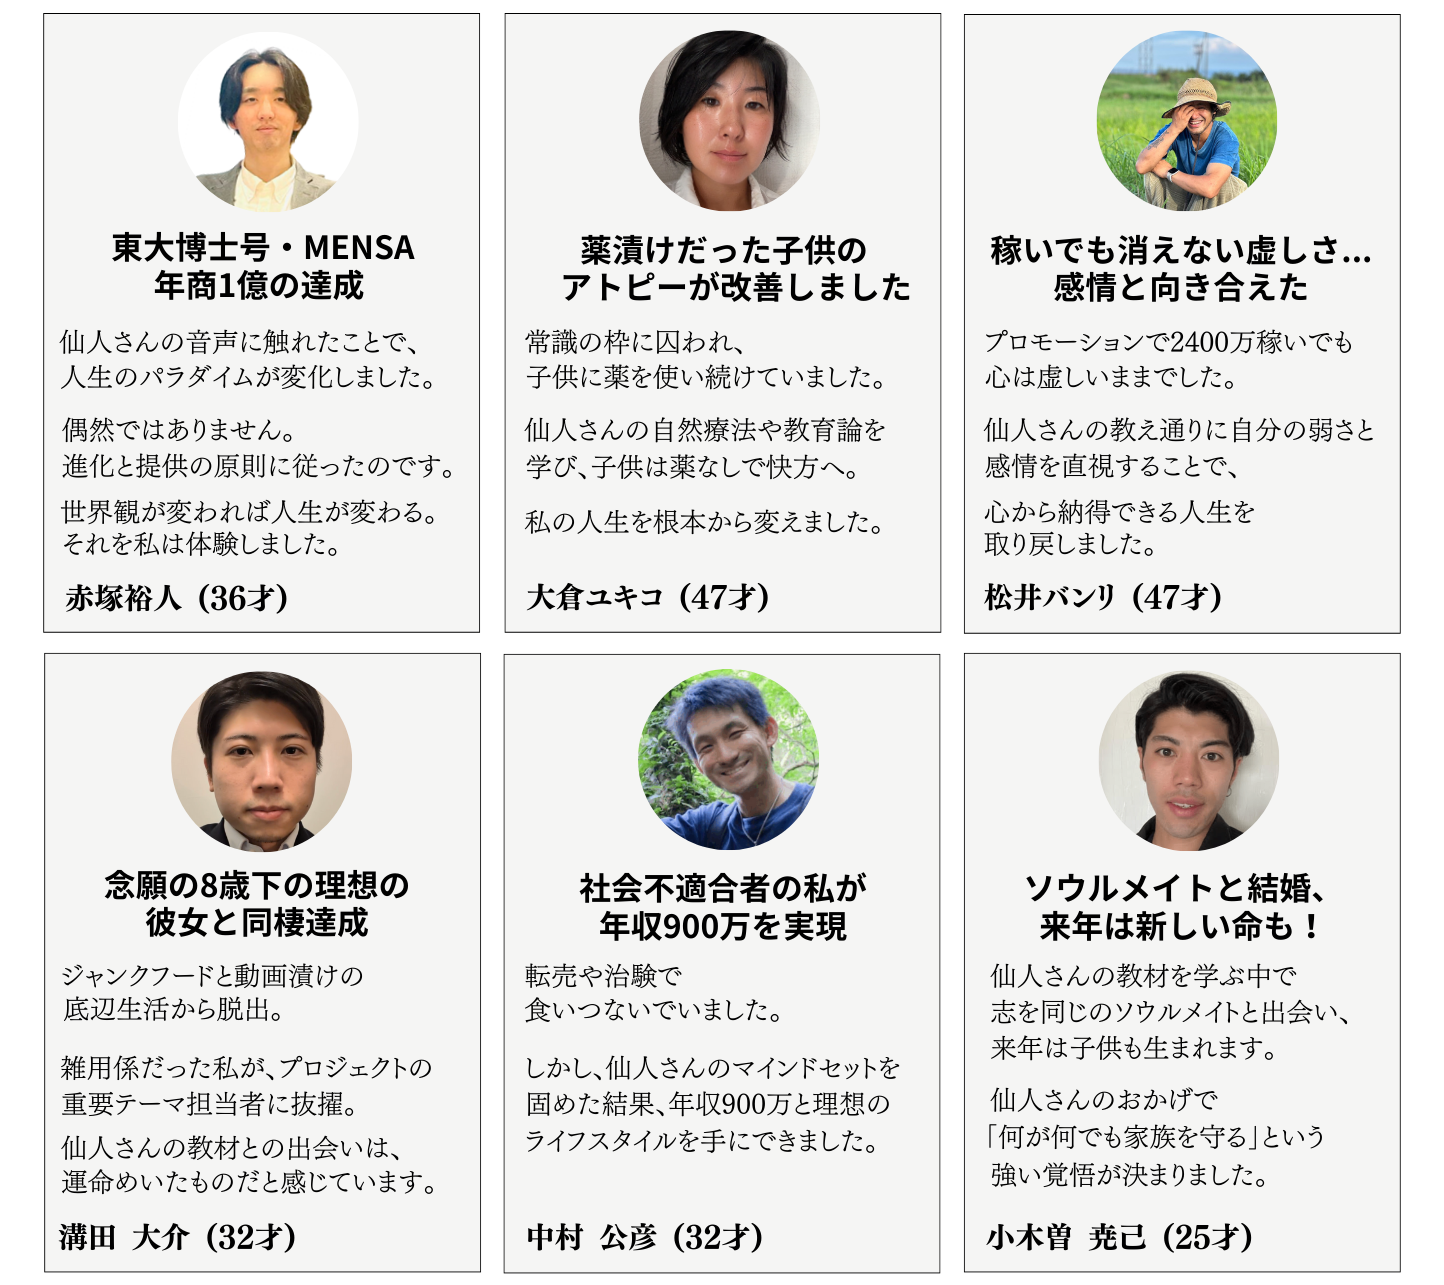
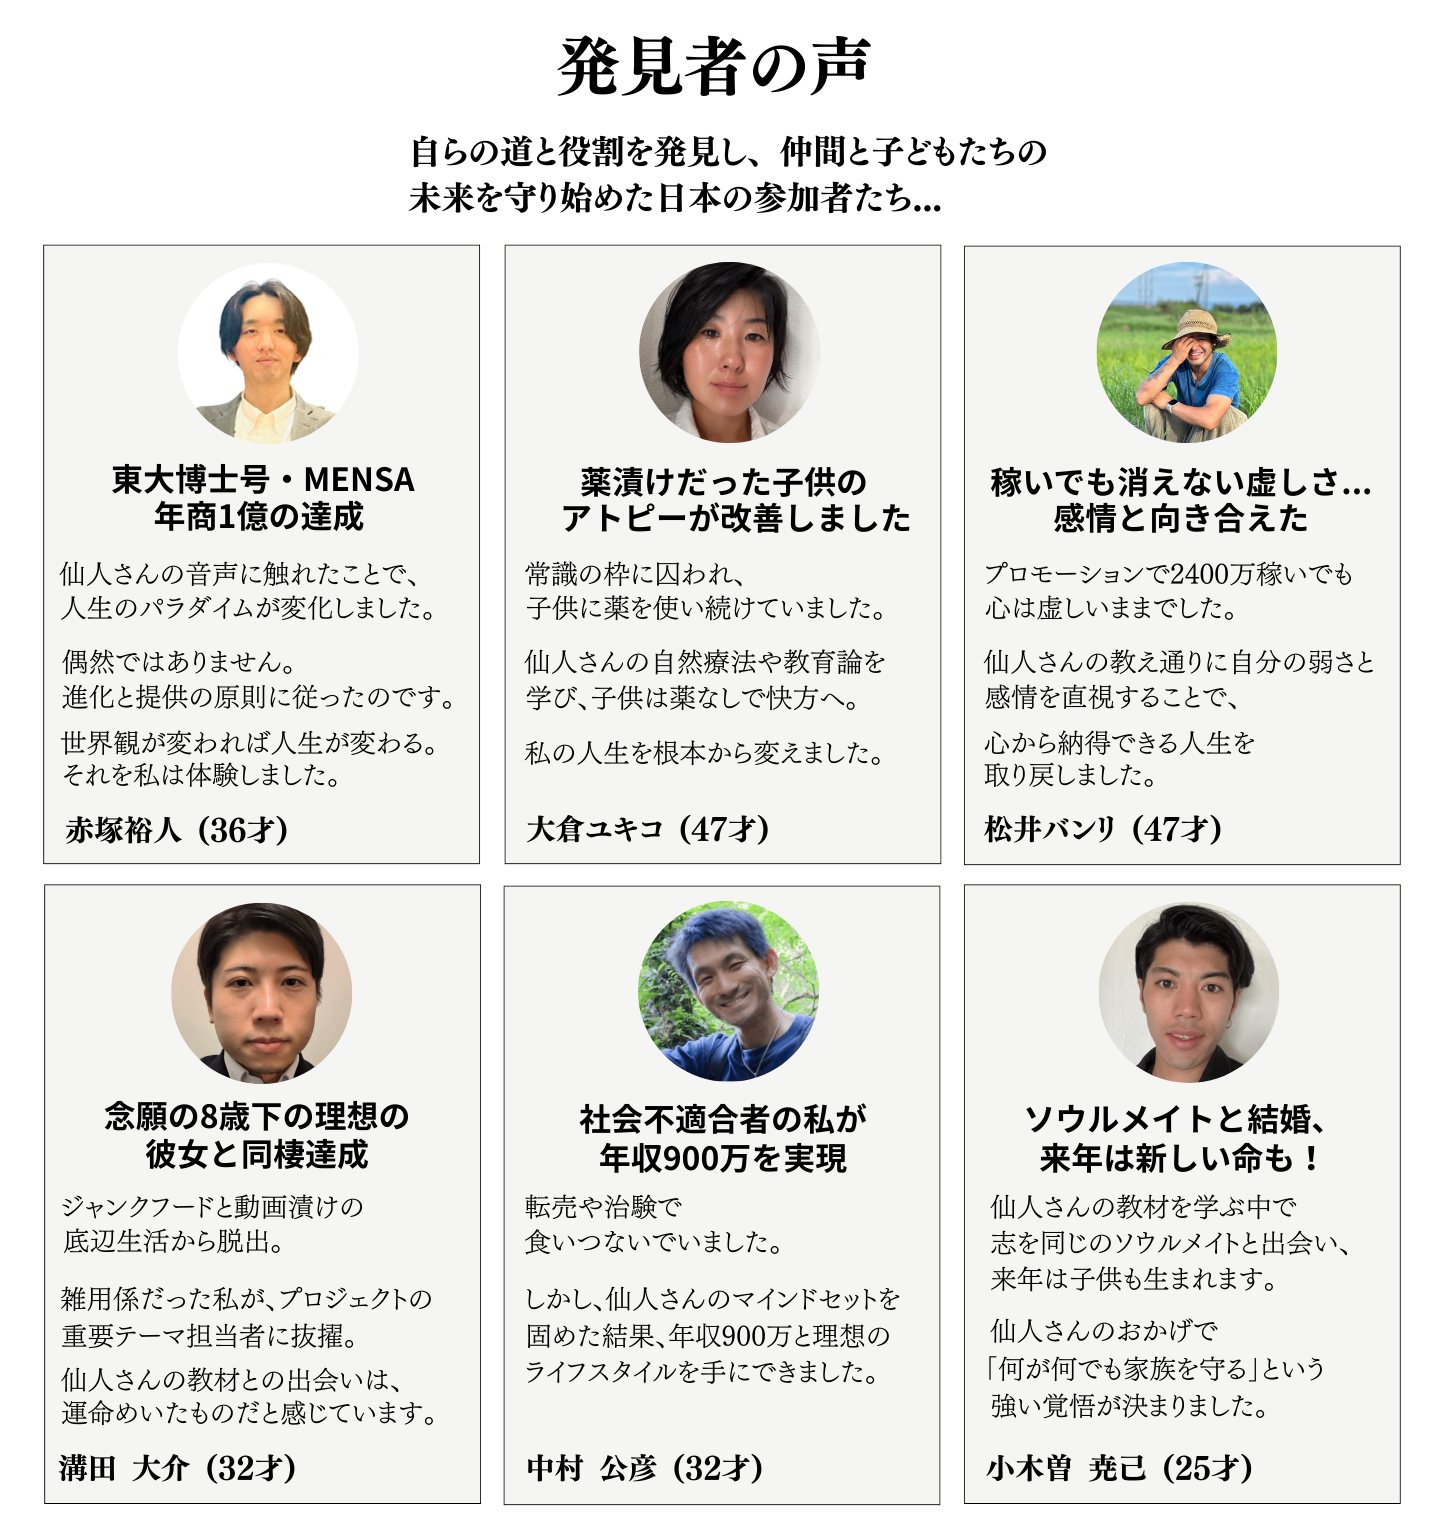
Add files via upload
update

diff --git a/index.html b/index.html
@@ -41,7 +41,7 @@
 
         <div class="section section02">
             <p class="headline-sub">“お金を稼げても人生は変わらない。<br>
-            問題は 「<span class="highlight-1">資本主義から抜け出せるか</span>」</p>
+            問題は <span class="highlight-1">資本主義から抜け出せるか</span></p>
             <p class="headline-sub2">
                 “山奥で12人の子どもと動物たちと暮らす男が、<br> 
                 <span class="highlight-1">仲間を守る文明</span>のつくり方を公開する”</p>
@@ -55,13 +55,6 @@
         </picture>
     </div>
 </div>
-
-        <div class="section section04">
-            <p class="from-text">
-            From: 仙人さん<br>
-            2025年11月、午前8時12分<br>
-            波動水の出る山の自宅</p>
-        </div>
 
         <!-- 音声プレーヤーセクション -->
         <div class="section">
@@ -82,10 +75,10 @@
     });
 </script>
 
-    <p class="headline-sub3">メンバーの声</p>
-        <p class="headline-sub4">自らの道と役割を発見し、 仲間と子どもたちの <br>未来を守り始めた、日本の参加者たち...</p>
+    <!--p class="headline-sub3">発見者の声</p>
+        <p class="headline-sub4">自らの道と役割を発見し、 仲間と子どもたちの <br>未来を守り始めた、日本の参加者たち...</p-->
 
-<div class="testimonial-grid" style="margin-bottom:0px;">
+<div class="testimonial-grid" style="margin-top:30px;margin-bottom:0px;">
     <div class="testimonial-item">
         <picture>
             <source srcset="files/head-koe2.webp" type="image/webp">
@@ -93,13 +86,20 @@
         </picture>
     </div>
 </div>
+        </div>
 
+
+        <div class="section section04" style="padding-bottom:0px;">
+            <p class="from-text">
+            <strong>From: 仙人さん</strong><br>
+            早朝 8時12分<br>
+            波動水の出る山の自宅</p>
         </div>
 
         <!-- メインコピー開始 -->
-        <div class="section section05">
-            <p class="bold-text"><span style="font-size:200%">人</span>は稼ぎ方を求めている。</p>
-            <p>だが世界が求めているのは、稼ぎ方を超えて<br class="sp-only">文明を前に進められる人間。</p>
+        <div class="section section05" style="padding-top: 10px;">
+            <p class="bold-text start-text"><span style="font-size:140%">人</span>は稼ぎ方を求めている。</p>
+            <p>だが世界が求めているのは、稼ぎ方を超えて<br>文明を前に進められる人間。</p>
             <p>孤独に戦う自由ではなく、守る力としての自由。</p>
             <p>富を独占する者ではなく、富を循環させられる者。</p>
             <p>あなたの力は、あなた一人のものではない。</p>
@@ -1843,7 +1843,9 @@
         </div>
 
         <!-- お客様の声セクション -->
-        <div class="section section-testimonials">
+        <div class="section section72">
+            <h3>追伸3:</h3>
+            <p style="font-weight:bold">仙人さんの元に届けられたファンからの手紙…</p>
 <div class="testimonial-grid">
     <div class="testimonial-item">
 <a href="#" target="_blank">

diff --git a/files/style.css b/files/style.css
@@ -61,7 +61,7 @@ ul, li {
    セクション基本設定
    ========================================== */
 .section {
-    padding: 30px 40px;
+    padding: 10px 40px;
     text-align: left;
 }
 
@@ -172,6 +172,19 @@ h3 {
     color: #000000;
     text-align: left;
     margin-bottom: 0.6em!important;
+    margin-left:0px;
+    font-family: 'ヒラギノ角ゴ ProN', 'Hiragino Kaku Gothic ProN', '游ゴシック', 'YuGothic', 'メイリオ', Meiryo, 'ＭＳ ゴシック', 'MS Gothic', sans-serif;
+    /*font-family: "ヒラギノ角ゴ StdN W8", "Hiragino Kaku Gothic StdN", "ＭＳ Ｐゴシック", "MS PGothic", sans-serif;*/
+}
+
+.start-text {
+    font-size: clamp(18px, 3vw, 26px);
+    font-weight: 900;
+    line-height: 1.7;
+    color: #000000;
+    text-align: center;
+    margin-top: 0px;
+    margin-bottom: 1em!important;
     margin-left:0px;
     font-family: 'ヒラギノ角ゴ ProN', 'Hiragino Kaku Gothic ProN', '游ゴシック', 'YuGothic', 'メイリオ', Meiryo, 'ＭＳ ゴシック', 'MS Gothic', sans-serif;
     /*font-family: "ヒラギノ角ゴ StdN W8", "Hiragino Kaku Gothic StdN", "ＭＳ Ｐゴシック", "MS PGothic", sans-serif;*/
@@ -513,7 +526,6 @@ h3 {
    ========================================== */
 .section-testimonials {
     padding: 60px 40px;
-    background: #F9F9F9;
 }
 
 .section-testimonials h2 {
@@ -658,7 +670,7 @@ h3 {
     }
 
     .section {
-        padding: 25px 30px;
+        padding: 10px 30px;
     }
 
     h3 {
@@ -695,7 +707,7 @@ h3 {
     }
 
     .section {
-        padding: 10px 20px;
+        padding: 5px 20px;
     }
 
 .headline-sub3 {
